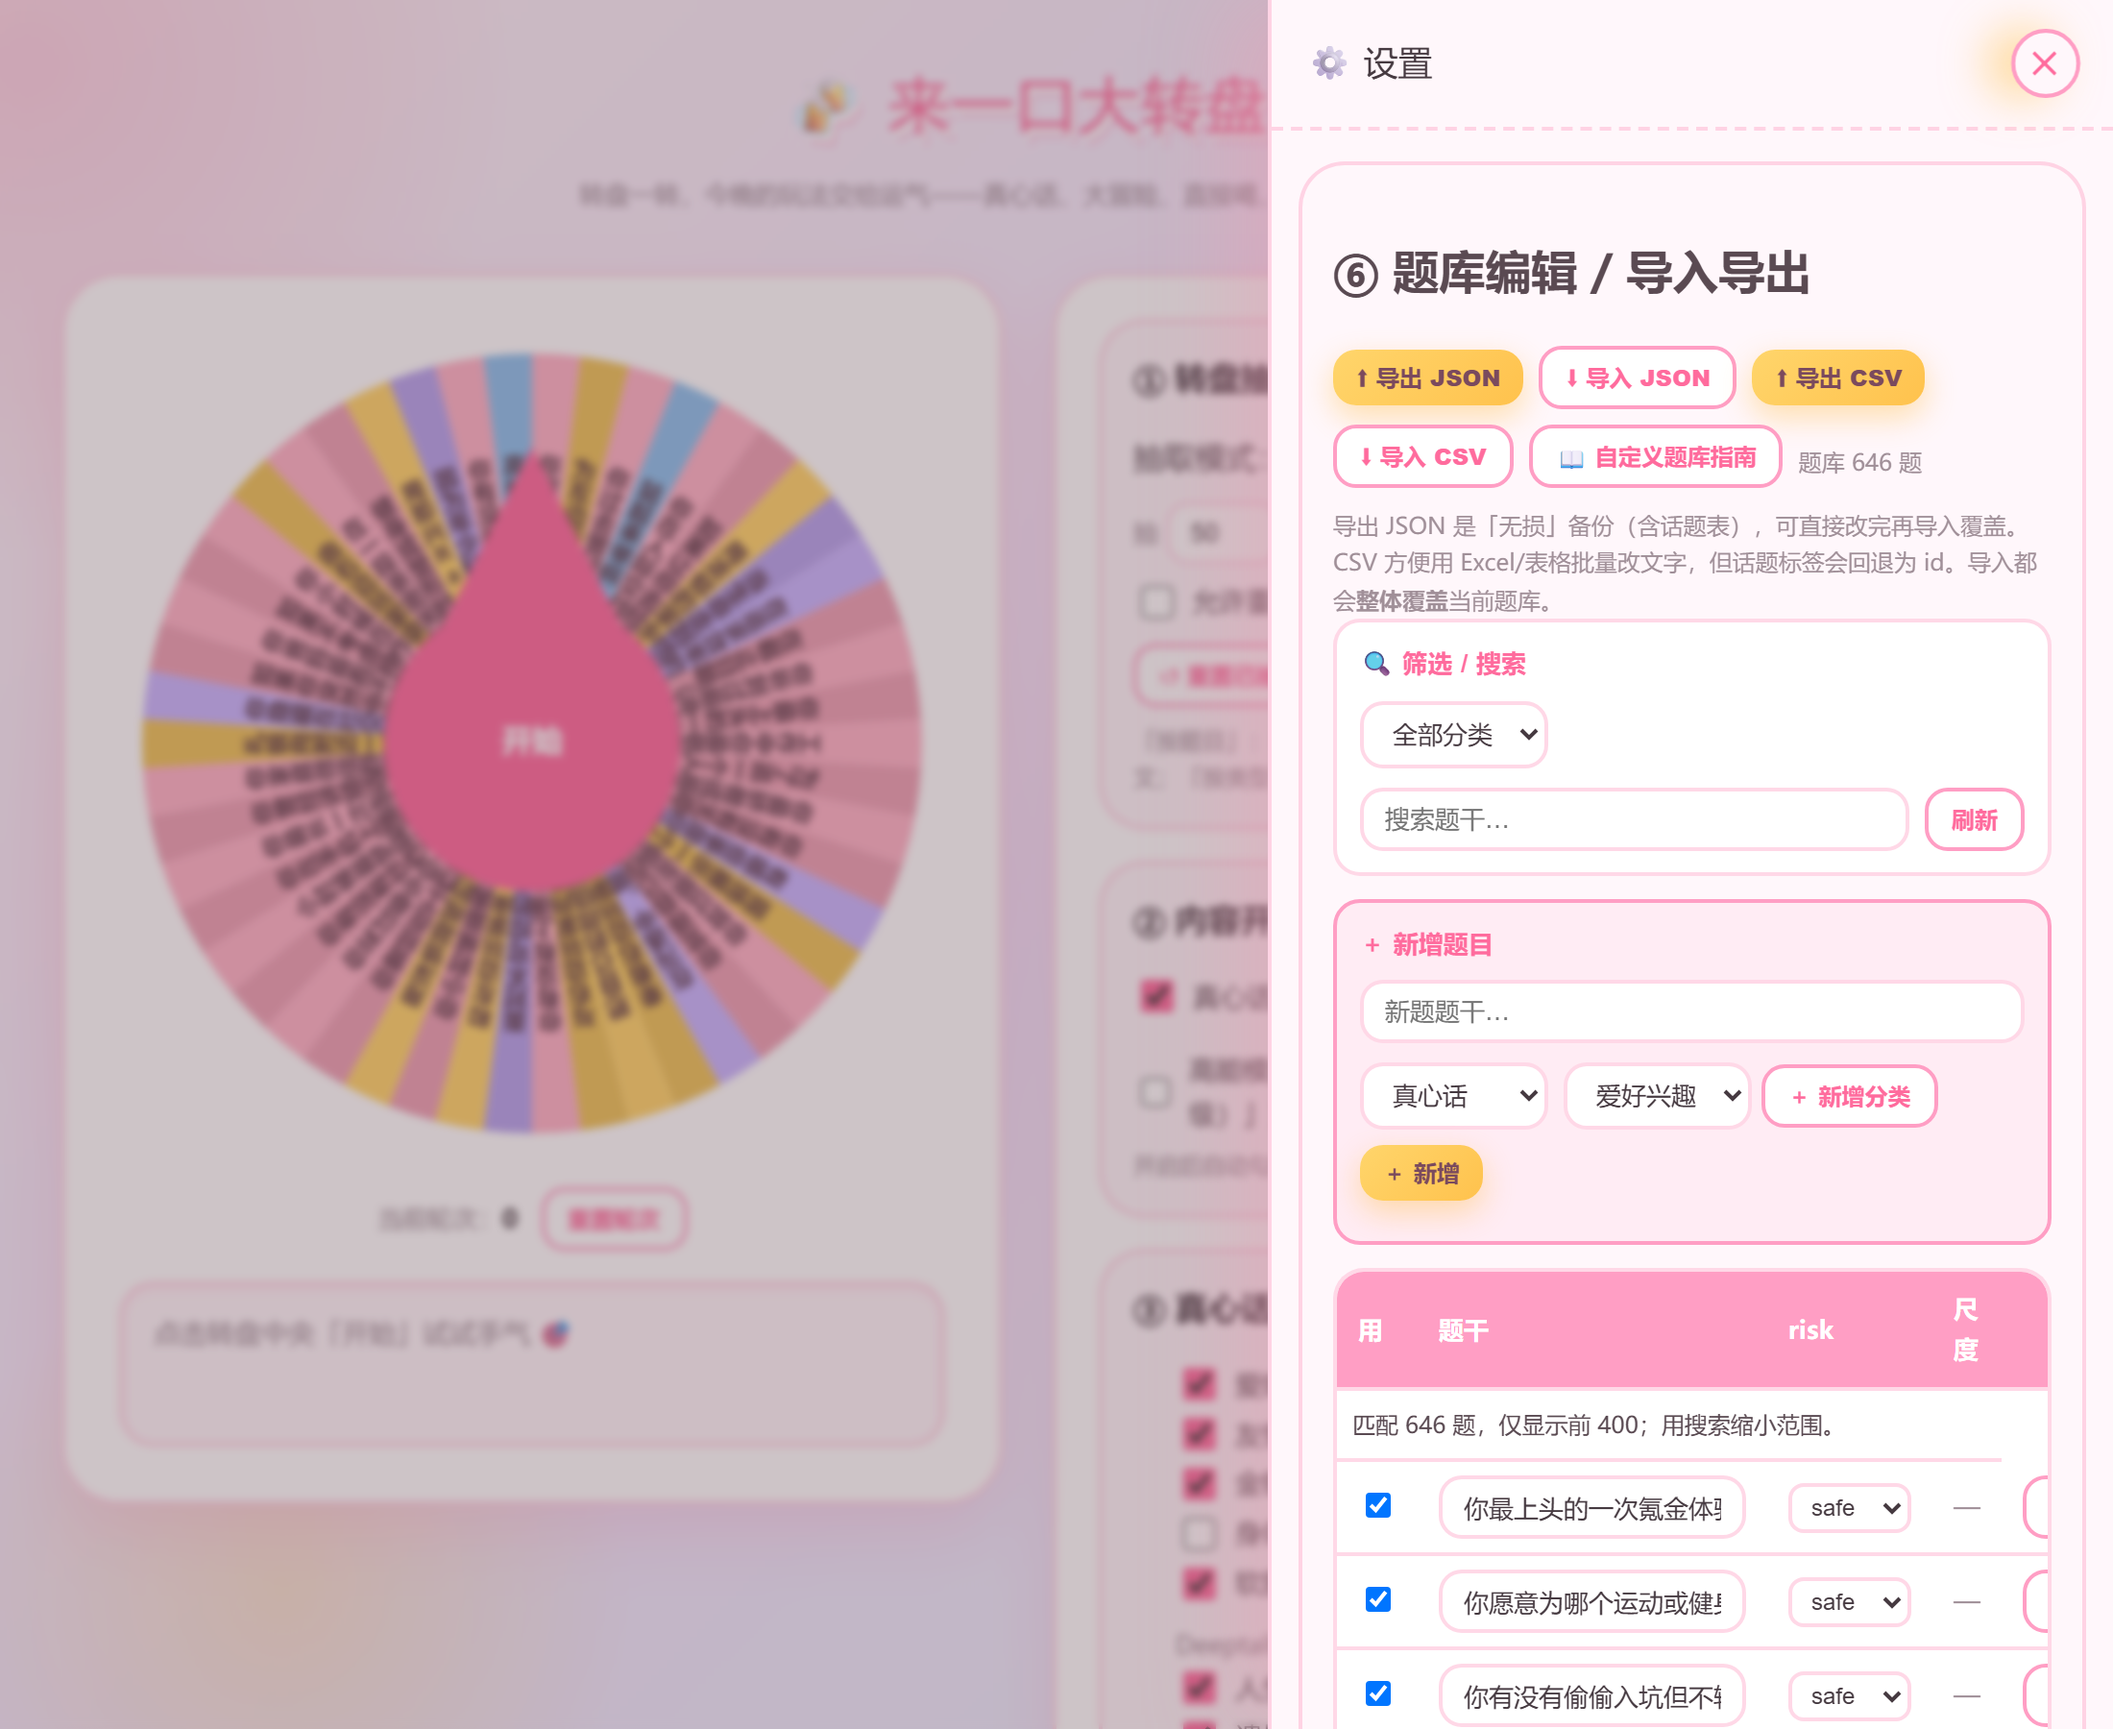
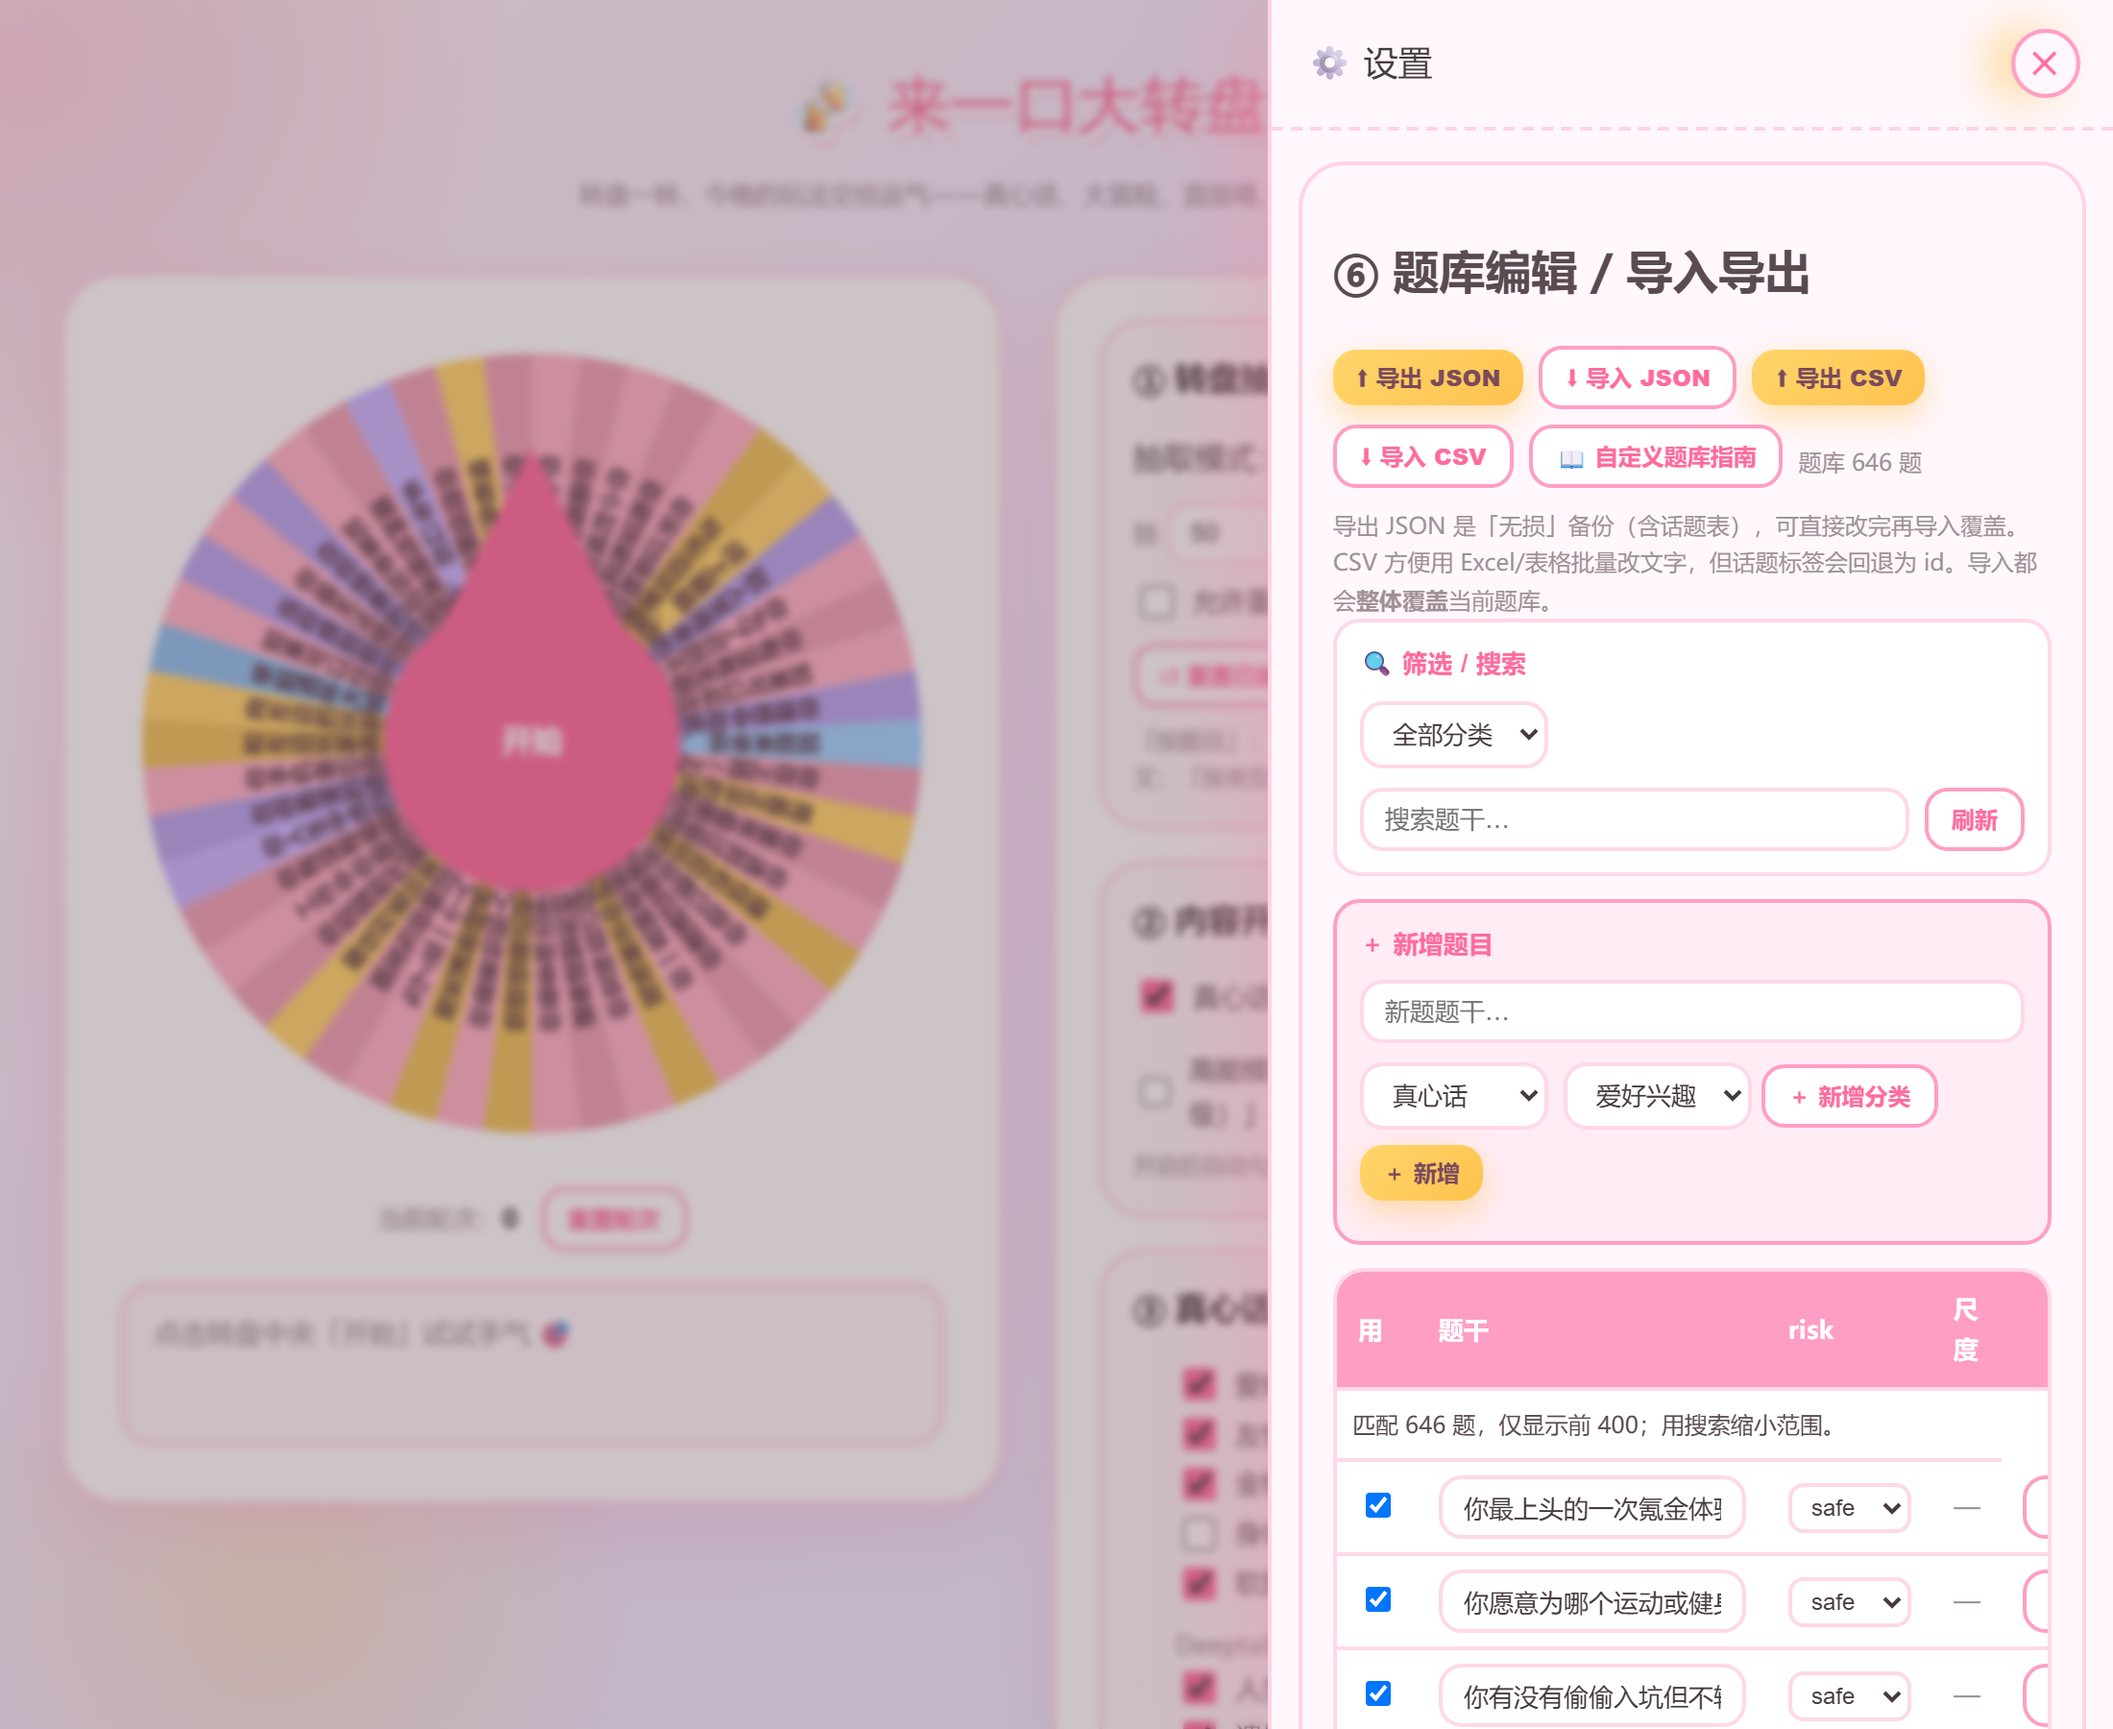
fix: 英文转盘改为完整句子 + 关闭自动换行，沿外圈横排
- 撤回 emoji/缩写方案

- 英文转盘显示完整句子（截断到 16 字符），关闭 wordWrap 防止单词被拆成 wh/at/ar/e 碎片

- lineClamp: 1 保证单行不换行，沿转盘外圈弧线横排

- 中文版（zhFont）完全不变

Changed region(s): [[0.0618, 0.1867, 0.4636, 0.56], [0.1236, 0.4978, 0.3709, 0.6533]]

diff --git a/app.html b/app.html
@@ -824,21 +824,18 @@
 
   function truncate(s, n) { return s.length > n ? s.slice(0, n - 1) + '…' : s; }
 
-  // 英文在转盘切片里会沿半径竖排，单词被拆成单个字母，很难读。
-  // 英文模式下改用表情符号图标（单字形，竖排不拆分）+ 短类别名，
-  // 完整题目仍显示在结果区；中文保持显示题目原文。
+  // 转盘切片文字：中文版保持原样（显示题目/分支标签，自动换行）。
+  // 英文版：lucky-canvas 默认在字符处换行会把单词拆碎（wh/at/ar/e），
+  // 因此关闭自动换行（wordWrap:false），让完整句子沿半径从外圈往圆心连续排成一条线。
   function wheelLabel(q, b) {
-    if (lang === 'en') {
-      const cat = q ? q.cat : (b ? b.cat : '');
-      return (CAT_META[cat] && CAT_META[cat].emoji) || '•';
-    }
-    if (q) return truncate(qText(q), 12);
-    return truncate(b.label, 14);
+    if (q) return truncate(qText(q), lang === 'en' ? 16 : 12);
+    return truncate(b.label, lang === 'en' ? 18 : 14);
   }
 
   function buildPrizes() {
     const empty = [{ background: '#6b7280', fonts: [{ text: t('请开启内容'), top: '40%', fontColor: '#fff', fontSize: '13px', fontWeight: 'bold' }] }];
-    const enFont = { top: '40%', fontColor: '#5a3a47', fontSize: '22px' };
+    // 英文：wordWrap:false 保持单词连续，lineClamp 不截行
+    const enFont = { top: '38%', fontColor: '#5a3a47', fontSize: '12px', fontWeight: 'bold', wordWrap: false, lineClamp: 1 };
     const zhFont = { top: '40%', fontColor: '#5a3a47', fontSize: '12px', fontWeight: 'bold' };
     const baseFont = (lang === 'en') ? enFont : zhFont;
     if (wheelMode === 'question') {

diff --git a/app.src.html b/app.src.html
@@ -820,21 +820,18 @@
 
   function truncate(s, n) { return s.length > n ? s.slice(0, n - 1) + '…' : s; }
 
-  // 英文在转盘切片里会沿半径竖排，单词被拆成单个字母，很难读。
-  // 英文模式下改用表情符号图标（单字形，竖排不拆分）+ 短类别名，
-  // 完整题目仍显示在结果区；中文保持显示题目原文。
+  // 转盘切片文字：中文版保持原样（显示题目/分支标签，自动换行）。
+  // 英文版：lucky-canvas 默认在字符处换行会把单词拆碎（wh/at/ar/e），
+  // 因此关闭自动换行（wordWrap:false），让完整句子沿半径从外圈往圆心连续排成一条线。
   function wheelLabel(q, b) {
-    if (lang === 'en') {
-      const cat = q ? q.cat : (b ? b.cat : '');
-      return (CAT_META[cat] && CAT_META[cat].emoji) || '•';
-    }
-    if (q) return truncate(qText(q), 12);
-    return truncate(b.label, 14);
+    if (q) return truncate(qText(q), lang === 'en' ? 16 : 12);
+    return truncate(b.label, lang === 'en' ? 18 : 14);
   }
 
   function buildPrizes() {
     const empty = [{ background: '#6b7280', fonts: [{ text: t('请开启内容'), top: '40%', fontColor: '#fff', fontSize: '13px', fontWeight: 'bold' }] }];
-    const enFont = { top: '40%', fontColor: '#5a3a47', fontSize: '22px' };
+    // 英文：wordWrap:false 保持单词连续，lineClamp 不截行
+    const enFont = { top: '38%', fontColor: '#5a3a47', fontSize: '12px', fontWeight: 'bold', wordWrap: false, lineClamp: 1 };
     const zhFont = { top: '40%', fontColor: '#5a3a47', fontSize: '12px', fontWeight: 'bold' };
     const baseFont = (lang === 'en') ? enFont : zhFont;
     if (wheelMode === 'question') {

diff --git a/index.html b/index.html
@@ -824,21 +824,18 @@
 
   function truncate(s, n) { return s.length > n ? s.slice(0, n - 1) + '…' : s; }
 
-  // 英文在转盘切片里会沿半径竖排，单词被拆成单个字母，很难读。
-  // 英文模式下改用表情符号图标（单字形，竖排不拆分）+ 短类别名，
-  // 完整题目仍显示在结果区；中文保持显示题目原文。
+  // 转盘切片文字：中文版保持原样（显示题目/分支标签，自动换行）。
+  // 英文版：lucky-canvas 默认在字符处换行会把单词拆碎（wh/at/ar/e），
+  // 因此关闭自动换行（wordWrap:false），让完整句子沿半径从外圈往圆心连续排成一条线。
   function wheelLabel(q, b) {
-    if (lang === 'en') {
-      const cat = q ? q.cat : (b ? b.cat : '');
-      return (CAT_META[cat] && CAT_META[cat].emoji) || '•';
-    }
-    if (q) return truncate(qText(q), 12);
-    return truncate(b.label, 14);
+    if (q) return truncate(qText(q), lang === 'en' ? 16 : 12);
+    return truncate(b.label, lang === 'en' ? 18 : 14);
   }
 
   function buildPrizes() {
     const empty = [{ background: '#6b7280', fonts: [{ text: t('请开启内容'), top: '40%', fontColor: '#fff', fontSize: '13px', fontWeight: 'bold' }] }];
-    const enFont = { top: '40%', fontColor: '#5a3a47', fontSize: '22px' };
+    // 英文：wordWrap:false 保持单词连续，lineClamp 不截行
+    const enFont = { top: '38%', fontColor: '#5a3a47', fontSize: '12px', fontWeight: 'bold', wordWrap: false, lineClamp: 1 };
     const zhFont = { top: '40%', fontColor: '#5a3a47', fontSize: '12px', fontWeight: 'bold' };
     const baseFont = (lang === 'en') ? enFont : zhFont;
     if (wheelMode === 'question') {
